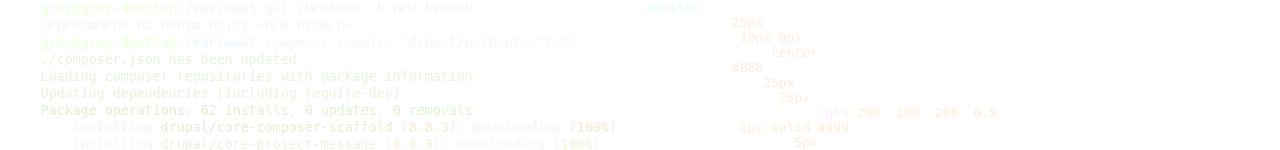
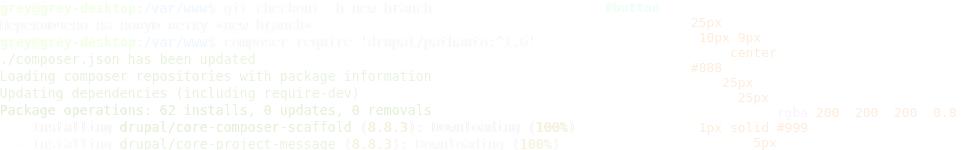
Изменил парметры фона шапки
Сместил фоновое изображение влево.
Само изображение немного обрезал.
Добавил значениe repeat-x.
linear-gradient убрал из "header .layout-container" и поместил его
непосредственно в хэдер.

diff --git a/css/style.css b/css/style.css
@@ -60,14 +60,9 @@ kbd {
 /* ----- header  ----- */
 
 header {
-  background: url("../images/header-background.png") #5b5d5d;
-  background-position-x: 65px;
+  background: linear-gradient(to bottom, transparent, #3f4040), url(../images/header-background.png) #5b5d5d 30px 0 repeat-x;
   position: relative;
   z-index: 2;
-}
-
-header .layout-container {
-  background: linear-gradient(to bottom, transparent ,#3f4040);
 }
 
 header > div {
